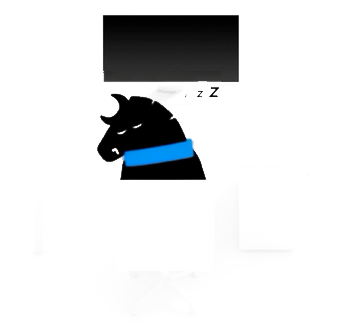
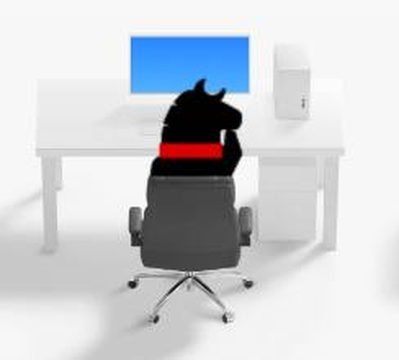
Fix Marvis office station rendering

diff --git a/wlcodex/live_stream/static/relay_marvis.css b/wlcodex/live_stream/static/relay_marvis.css
@@ -848,7 +848,7 @@ body[data-marvis-relay-view="office"] .marvis-office-scene {
   align-self: start;
   justify-self: center;
   margin-top: 6px;
-  overflow: hidden;
+  overflow: visible;
 }
 
 body[data-marvis-relay-view="office"] .marvis-office-scene-img {
@@ -883,13 +883,19 @@ body[data-marvis-relay-view="office"] .marvis-office-hotspot {
   cursor: pointer;
 }
 
-body[data-marvis-relay-view="office"] .marvis-office-worker {
+body[data-marvis-relay-view="office"] .marvis-office-empty {
+  cursor: default;
+  pointer-events: none;
+}
+
+body[data-marvis-relay-view="office"] .marvis-office-station {
   position: absolute;
   inset: 0;
   display: block;
   width: 100%;
   height: 100%;
   object-fit: contain;
+  mix-blend-mode: multiply;
   user-select: none;
   pointer-events: none;
 }
@@ -897,10 +903,10 @@ body[data-marvis-relay-view="office"] .marvis-office-worker {
 body[data-marvis-relay-view="office"] .marvis-office-hotspot span {
   position: absolute;
   left: 50%;
-  top: -1%;
+  top: -7%;
   transform: translateX(-50%);
   color: #111;
-  font-size: clamp(11px, 3vw, 14px);
+  font-size: clamp(11px, 3vw, 13px);
   font-weight: 800;
   line-height: 1;
   white-space: nowrap;

diff --git a/tests/test_relay_ui_routes.py b/tests/test_relay_ui_routes.py
@@ -226,7 +226,7 @@ async def test_relay_task_list_is_workspace_not_session_list(tmp_path: Path) -> 
     assert "Marvis" in response
     assert 'data-marvis-relay-view="tasks"' in response
     assert '<meta name="color-scheme" content="light only">' in response
-    assert '<link rel="stylesheet" href="/static/relay_marvis.css?v=20260627-office-scene">' in response
+    assert '<link rel="stylesheet" href="/static/relay_marvis.css?v=20260627-office-seamless">' in response
     assert 'class="marvis-relay-bottom-nav"' in response
     assert 'class="marvis-relay-composer"' in response
     assert 'class="marvis-relay-avatar marvis-relay-avatar-marvis"' in response
@@ -335,12 +335,13 @@ async def test_marvis_relay_office_page_uses_screenshot_assets_and_persona_modal
     assert "HTTP/1.1 200 OK" in response
     assert 'data-marvis-relay-view="office"' in response
     assert '<meta name="color-scheme" content="light only">' in response
-    assert '<link rel="stylesheet" href="/static/relay_marvis.css?v=20260627-office-scene">' in response
+    assert '<link rel="stylesheet" href="/static/relay_marvis.css?v=20260627-office-seamless">' in response
     assert "Marvis办公室" in response
     assert 'href="/native/workflows/relay?token=secret"' in response
     assert "/static/marvis/office-scene-empty.png" in response
     assert response.count("data-marvis-office-role=") == 5
     assert response.count("/static/marvis/office-worker-cutout-") == 5
+    assert response.count("/static/marvis/office-desk-empty-slot.png") == 1
     assert "/static/marvis/office-desk-empty-hd.png" not in response
     assert response.count("data-marvis-persona-open=") == 5
     assert '"architect":{"role":"architect","display_name":"架构工程师"' in response
@@ -388,6 +389,7 @@ async def test_marvis_relay_office_occupancy_follows_configured_roles(
     assert 'data-marvis-office-role="implementer"' in response
     assert response.count("data-marvis-persona-open=") == 2
     assert response.count("/static/marvis/office-worker-cutout-") == 2
+    assert response.count("/static/marvis/office-desk-empty-slot.png") == 4
     assert "/static/marvis/office-worker-cutout-3.png" not in response
     assert "/static/marvis/office-desk-empty-hd.png" not in response
 
@@ -568,7 +570,7 @@ async def test_relay_task_detail_renders_conversation_default_and_board_switch(
     assert "HTTP/1.1 200 OK" in response
     assert 'data-marvis-relay-view="conversation"' in response
     assert '<meta name="color-scheme" content="light only">' in response
-    assert '<link rel="stylesheet" href="/static/relay_marvis.css?v=20260627-office-scene">' in response
+    assert '<link rel="stylesheet" href="/static/relay_marvis.css?v=20260627-office-seamless">' in response
     assert 'class="marvis-relay-topbar"' in response
     assert 'class="marvis-relay-bottom-nav"' in response
     assert 'href="/native/workflows/relay/office?token=secret"' in response

diff --git a/wlcodex/live_stream/server.py b/wlcodex/live_stream/server.py
@@ -140,7 +140,7 @@ _STATIC_CONTENT_TYPES = {
     ".jpeg": "image/jpeg",
     ".webp": "image/webp",
 }
-_RELAY_MARVIS_CSS_HREF = "/static/relay_marvis.css?v=20260627-office-scene"
+_RELAY_MARVIS_CSS_HREF = "/static/relay_marvis.css?v=20260627-office-seamless"
 
 _NATIVE_APP_HEAD = """  <link rel="manifest" href="/native/manifest.webmanifest">
   <meta name="theme-color" content="#000000">
@@ -4155,15 +4155,28 @@ def _marvis_relay_office_page(
         ensure_ascii=False,
         separators=(",", ":"),
     ).replace("</", "<\\/")
-    occupied_desks = "\n".join(
-        f"""
-        <button class="marvis-office-hotspot marvis-office-hotspot-{index + 1}" type="button" data-marvis-office-role="{escape(role['role'])}" data-marvis-persona-open="{escape(role['role'])}" aria-label="打开{escape(role['display_name'])}人设">
-          <img class="marvis-office-worker" src="/static/marvis/office-worker-cutout-{(index % 6) + 1}.png" alt="" loading="eager">
+    office_slots: list[str] = []
+    for index in range(6):
+        slot_class = f"marvis-office-hotspot marvis-office-hotspot-{index + 1}"
+        if index < len(active_roles):
+            role = active_roles[index]
+            office_slots.append(
+                f"""
+        <button class="{slot_class}" type="button" data-marvis-office-role="{escape(role['role'])}" data-marvis-persona-open="{escape(role['role'])}" aria-label="打开{escape(role['display_name'])}人设">
+          <img class="marvis-office-station marvis-office-worker" src="/static/marvis/office-worker-cutout-{(index % 6) + 1}.png" alt="" loading="eager">
           <span>{escape(role['display_name'])}</span>
         </button>
         """
-        for index, role in enumerate(active_roles)
-    )
+            )
+        else:
+            office_slots.append(
+                f"""
+        <div class="{slot_class} marvis-office-empty" aria-hidden="true">
+          <img class="marvis-office-station marvis-office-empty-station" src="/static/marvis/office-desk-empty-slot.png" alt="" loading="eager">
+        </div>
+        """
+            )
+    office_slots_html = "\n".join(office_slots)
     return _replace_html_icons(f"""<!doctype html>
 <html lang="zh-CN">
 <head>
@@ -4185,7 +4198,7 @@ def _marvis_relay_office_page(
       <section class="marvis-office-scene" aria-label="Marvis办公室工位">
         <img class="marvis-office-scene-img" src="/static/marvis/office-scene-empty.png" alt="" loading="eager">
         <div class="marvis-office-layer">
-          {occupied_desks}
+          {office_slots_html}
         </div>
       </section>
       <section class="marvis-office-token-row" aria-label="Token统计">

diff --git a/tests/test_worker_live_stream_native_routes.py b/tests/test_worker_live_stream_native_routes.py
@@ -696,6 +696,13 @@ async def test_static_assets_are_publicly_cacheable(tmp_path: Path) -> None:
             "Host: test\r\n"
             "Connection: close\r\n\r\n",
         )
+        office_empty_slot_response = await _read_response(
+            server.host,
+            server.port,
+            "GET /static/marvis/office-desk-empty-slot.png HTTP/1.1\r\n"
+            "Host: test\r\n"
+            "Connection: close\r\n\r\n",
+        )
     finally:
         await server.stop()
 
@@ -708,6 +715,12 @@ async def test_static_assets_are_publicly_cacheable(tmp_path: Path) -> None:
     assert "HTTP/1.1 200 OK" in office_image_response
     assert "Content-Type: image/png" in office_image_response
     assert "Cache-Control: public, max-age=300, stale-while-revalidate=60" in office_image_response
+    assert "HTTP/1.1 200 OK" in office_empty_slot_response
+    assert "Content-Type: image/png" in office_empty_slot_response
+    assert (
+        "Cache-Control: public, max-age=300, stale-while-revalidate=60"
+        in office_empty_slot_response
+    )
 
 
 @pytest.mark.asyncio
